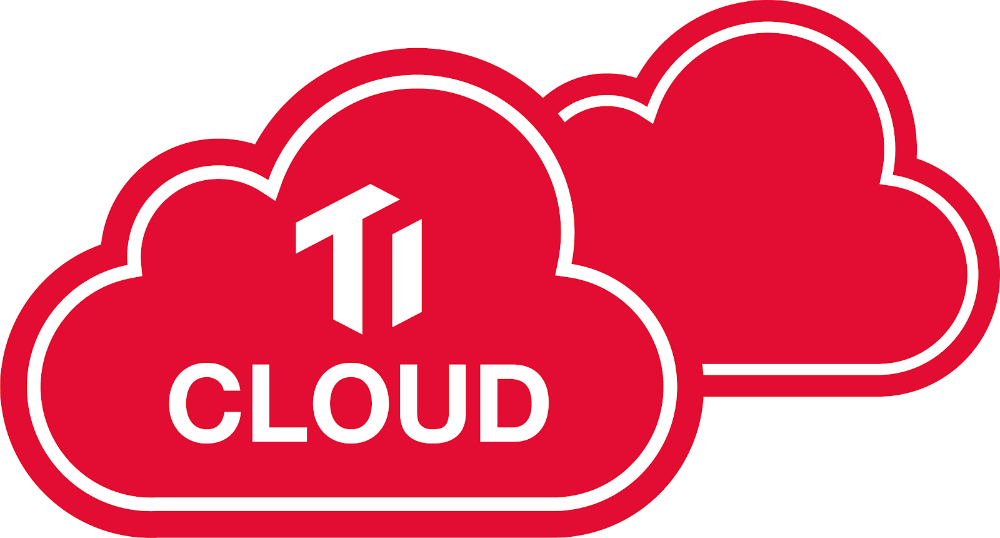
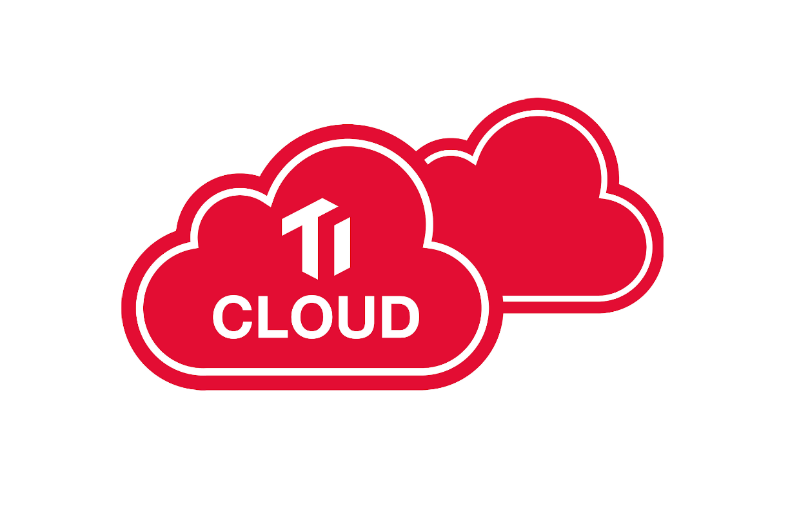
Modify pic size (#41)

diff --git a/announcing-tidb-cloud-managed-as-a-service-and-in-the-marketplace.md b/announcing-tidb-cloud-managed-as-a-service-and-in-the-marketplace.md
@@ -22,7 +22,7 @@ The TiDB Cloud offerings we are launching today have two options:
 
 ## Key Features 
 
-- **Always Online:** With TiDB Cloud, your database is always online, 24\/7, with no need to schedule downtime for maintenance. While online, it supports rolling upgrades, online DDL, cluster resizing, and automatic data rebalancing with hotspots removal.
+- **Always Online:** With TiDB Cloud, your database is always online, 24 / 7, with no need to schedule downtime for maintenance. While online, it supports rolling upgrades, online DDL, cluster resizing, and automatic data rebalancing with hotspots removal.
 
 - **Flexible Scaling:** TiDB has a cloud-native architectural design, where the stateless computing resources (TiDB, TiSpark) and the stateful storage layer (TiKV) are loosely coupled and can be scaled out (or in) depending on your use case and workloads. Thus, in TiDB Cloud, you have the ultimate pay-per-usage control over your database resources.
 
